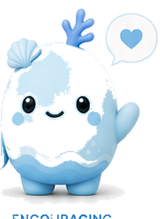
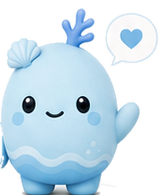
Cove-theme the lesson page (Algebra I): blue palette + Cove tutor
The lesson/app now themes to the course, matching the home:
- setCourse sets data-course on <html>; a Cove :root[data-course=algebra1] block remaps
  the app's palette tokens (navy/blue/mid/sky/teal, forest/moss/grass, btn, ink...) to the
  ocean blues, plus the ambient .overlay gradients, html bg, and selection color. Correct
  stays green, challenge gold, wrong red — semantic colors are theme-independent.
- The tutor is now the course guide: added guideName()/guideImg(mood); the FAB, its
  reactions, the tutor-panel header + name, the intro bubbles, and the tour mascot all use
  Cove art + the name 'Cove' for Algebra I (Sprout/green for Prealgebra). Extracted the full
  Cove expression set (hero/happy/focused/thinking/excited/front/encour) from the sheet.

Verified from the served file: CSS present, all inline scripts parse, cove assets 200.
(Browser pane was disconnected this turn, so no live screenshot — reload to see it.)

diff --git a/landing.html b/landing.html
@@ -3130,6 +3130,7 @@ h1,h2,h3,h4,.logo,.tour-pop h4,.auth-card h2,.demo .top .t,.quad .cell b,.cpanel
   window.setCourse=function(slug,opts){
     var c=COURSE_REG[slug]; if(!c) return false;
     CURRENT_COURSE=slug;
+    try{ document.documentElement.setAttribute('data-course', slug); }catch(e){}   // drives the per-course theme (Sprout green / Cove blue)
     if(!window.COURSE) window.COURSE={slug:c.slug,title:c.title};
     else { window.COURSE.slug=c.slug; window.COURSE.title=c.title; }
     TOC=c.toc; LESSONS=c.lessons; PSETS=c.psets;
@@ -3382,15 +3383,18 @@ h1,h2,h3,h4,.logo,.tour-pop h4,.auth-card h2,.demo .top .t,.quad .cell b,.cpanel
     };
   })();
   // Sprout reacts on the chat launcher: expression swap + a little pop/wobble, then settles
+  // the guide is course-scoped: Sprout (green) for Prealgebra, Cove (blue) for Algebra I
+  window.guideName=function(){ return CURRENT_COURSE==='algebra1'?'Cove':'Sprout'; };
+  window.guideImg=function(mood){ return 'paths/assets/'+(CURRENT_COURSE==='algebra1'?'cove/cove':'spot/spot')+'-'+mood+'.png'; };
   window.sproutReact=function(mood){
     var img=document.getElementById('sproutFabImg'), fab=document.getElementById('wsFabChat');
     if(!img||!fab) return;
-    var map={excited:'spot-excited',thinking:'spot-thinking',happy:'spot-happy',focused:'spot-focused',encour:'spot-encour'};
-    img.src='paths/assets/spot/'+(map[mood]||'spot-happy')+'.png';
+    var moods={excited:'excited',thinking:'thinking',happy:'happy',focused:'focused',encour:'encour'};
+    img.src=guideImg(moods[mood]||'happy');
     fab.classList.remove('react-correct','react-wrong'); void fab.offsetWidth;
     if(!window.CALM) fab.classList.add(mood==='thinking'||mood==='encour'?'react-wrong':'react-correct');
     clearTimeout(window.__sproutReactT);
-    window.__sproutReactT=setTimeout(function(){ img.src='paths/assets/spot/spot-hero.png'; fab.classList.remove('react-correct','react-wrong'); },1900);
+    window.__sproutReactT=setTimeout(function(){ img.src=guideImg('hero'); fab.classList.remove('react-correct','react-wrong'); },1900);
   };
   function checkAns(k){
     var rec=PROBREG[k]; if(!rec||!rec.accept) return;
@@ -3512,10 +3516,10 @@ h1,h2,h3,h4,.logo,.tour-pop h4,.auth-card h2,.demo .top .t,.quad .cell b,.cpanel
   var WS={active:false,key:null,L:null,meta:null,page:0,pages:[],keys:[]};
   function wsTutorHTML(){
     return '<aside class="ws-pane ws-tutor" id="wsTutor">'+
-      '<div class="ws-tuthead"><span class="av"><img src="paths/assets/spot/spot-happy.png" alt="Sprout"></span><span class="nm">Sprout</span>'+
+      '<div class="ws-tuthead"><span class="av"><img src="'+guideImg('happy')+'" alt="'+guideName()+'"></span><span class="nm">'+guideName()+'</span>'+
       '<button class="tut-close" onclick="WS.closePanel(\'tutor\')" title="Close">✕</button></div>'+
       '<div class="ws-body" id="tutBody">'+
-        '<div class="tut-bub bot">Hi, this is Sprout, your personal Quantica Tutor!</div>'+
+        '<div class="tut-bub bot">Hi, this is '+guideName()+', your personal Quantica Tutor!</div>'+
       '</div>'+
       '<div class="tut-compose"><textarea class="tut-input" id="tutInput" placeholder="Ask me anything about this problem…" rows="1" onkeydown="if(event.key===\'Enter\'&&!event.shiftKey){event.preventDefault();sendTutorMsg();}" oninput="this.style.height=\'auto\';this.style.height=Math.min(this.scrollHeight,120)+\'px\';"></textarea><button class="snd" id="tutSend" onclick="sendTutorMsg()">➤</button></div>'+
     '</aside>';
@@ -3551,7 +3555,7 @@ h1,h2,h3,h4,.logo,.tour-pop h4,.auth-card h2,.demo .top .t,.quad .cell b,.cpanel
       '<div class="ws-scrim" id="wsScrim" onclick="WS.closeAll()"></div>'+
       '<div class="ws-fab-group">'+
         '<button class="ws-fab ws-fab-chat" id="wsFabChat" onclick="WS.togglePanel(\'tutor\')" title="Ask Sprout">'+
-          '<img id="sproutFabImg" src="paths/assets/spot/spot-hero.png" alt="Sprout" style="width:100%;height:100%;object-fit:contain;pointer-events:none">'+
+          '<img id="sproutFabImg" src="'+guideImg('hero')+'" alt="'+guideName()+'" style="width:100%;height:100%;object-fit:contain;pointer-events:none">'+
         '</button>'+
       '</div>'+
       '<button class="ws-fab ws-fab-ideas" id="wsFabIdeas" onclick="WS.togglePanel(\'nb\')" title="Key Ideas">✦</button>'+
@@ -4502,7 +4506,7 @@ function initTutor(lessonKey, lessonTitle) {
   tutorContext = lessonTitle || lessonKey || 'math problem solving';
   var body = document.getElementById('tutBody');
   if (body) {
-    body.innerHTML = '<div class="tut-bub bot">Hi, this is Sprout, your personal Quantica Tutor!</div>';
+    body.innerHTML = '<div class="tut-bub bot">Hi, this is '+guideName()+', your personal Quantica Tutor!</div>';
   }
 }
 
@@ -4676,6 +4680,27 @@ async function sendTutorMsg() {
   }
   html{background:#F1F8E8}
   ::selection{background:rgba(67,176,99,.26)}
+  /* ===== Cove theme (Algebra I) — same layout & components, ocean palette. Correct stays
+     green, challenge stays gold, wrong stays red (semantic colors are theme-independent). ===== */
+  :root[data-course="algebra1"]{
+    --paper:#EFF7FE; --forest:#1C5486; --moss:#2E7CC0; --grass:#4D9EDD;
+    --lime:#BFE2F7; --sage:#6699C0; --btn:#3E8FCE; --btn-edge:#2E6FAE;
+    --navy:#1C5486; --blue:#2E7CC0; --mid:#3A83C4; --sky:#4D9EDD;
+    --teal:#4D9EDD; --teal2:#7FC1EA; --accent:#3E8FCE; --accent2:#4D9EDD;
+    --ink:#132F49; --slate:#42607A; --mute:#7C93A8;
+    --gem:#3E8FCE; --gem2:#7FC1EA;
+    --line:rgba(28,84,134,.15); --glass-line:rgba(90,140,200,.32); --softer:rgba(77,158,221,.10);
+  }
+  html[data-course="algebra1"]{background:#E7F2FC}
+  html[data-course="algebra1"] ::selection{background:rgba(77,158,221,.26)}
+  [data-course="algebra1"] .bg,[data-course="algebra1"] .overlay{background:
+      radial-gradient(1200px 820px at 10% -8%,rgba(77,158,221,.20),transparent 58%),
+      radial-gradient(1050px 760px at 96% 4%,rgba(169,216,247,.24),transparent 55%),
+      radial-gradient(980px 760px at 82% 104%,rgba(126,193,234,.14),transparent 55%),
+      radial-gradient(940px 760px at 2% 96%,rgba(46,124,192,.12),transparent 55%),
+      linear-gradient(180deg,#F2F9FF,#E6F1FB)}
+  [data-course="algebra1"] .bg::after,[data-course="algebra1"] .overlay::before{
+      background-image:linear-gradient(rgba(19,47,73,.05) 1px,transparent 1px),linear-gradient(90deg,rgba(19,47,73,.05) 1px,transparent 1px)}
 
   /* ambient canvas behind every view → soft greens + warm sun */
   .bg,.overlay{background:
@@ -6137,7 +6162,7 @@ async function sendTutorMsg() {
     el.innerHTML=
       '<div style="background:#fff;border:1.5px solid rgba(10,10,10,.14);border-radius:18px;box-shadow:0 24px 60px -18px rgba(10,10,10,.42);padding:20px;font-family:\'Space Grotesk\',system-ui,sans-serif;color:#0a0a0a">'+
         '<div style="display:flex;gap:12px;align-items:flex-start">'+
-          '<div style="flex:0 0 auto;width:40px;height:40px">'+MILO+'</div>'+
+          '<div style="flex:0 0 auto;width:40px;height:40px"><img src="'+(window.guideImg?guideImg('happy'):'paths/assets/spot/spot-happy.png')+'" alt="'+(window.guideName?guideName():'Sprout')+'" style="width:100%;height:100%;object-fit:contain"></div>'+
           '<div style="flex:1;min-width:0">'+
             '<div style="font-weight:700;font-size:16px;letter-spacing:-.01em;margin-bottom:3px">Nice, your first lesson is done.</div>'+
             '<div style="font-size:14px;line-height:1.5;color:#55554f">Create a free account to save your progress and streak. Takes a few seconds, and you can keep going either way.</div>'+